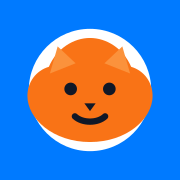
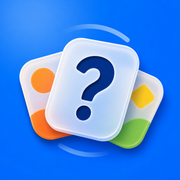
Voeg nieuw iOS-appicoon toe

diff --git a/public-sw.js b/public-sw.js
@@ -1,10 +1,9 @@
-const CACHE_NAME = "raadrondje-v15";
+const CACHE_NAME = "raadrondje-v16";
 const BASE_URL = new URL("./", self.location.href);
 const ASSETS = [
   "./",
   "./index.html",
   "./manifest.webmanifest",
-  "./icons/icon.svg",
   "./icons/icon-180.png",
   "./icons/icon-192.png",
   "./icons/icon-512.png",

diff --git a/index.html b/index.html
@@ -9,7 +9,7 @@
     <meta name="apple-mobile-web-app-status-bar-style" content="default" />
     <meta name="apple-mobile-web-app-title" content="RaadRondje" />
     <link rel="manifest" href="./manifest.webmanifest" />
-    <link rel="icon" href="./icons/icon.svg" type="image/svg+xml" />
+    <link rel="icon" href="./icons/icon-192.png" type="image/png" />
     <link rel="apple-touch-icon" sizes="180x180" href="./icons/icon-180.png" />
     <link rel="stylesheet" href="./src/styles.css" />
     <title>RaadRondje</title>